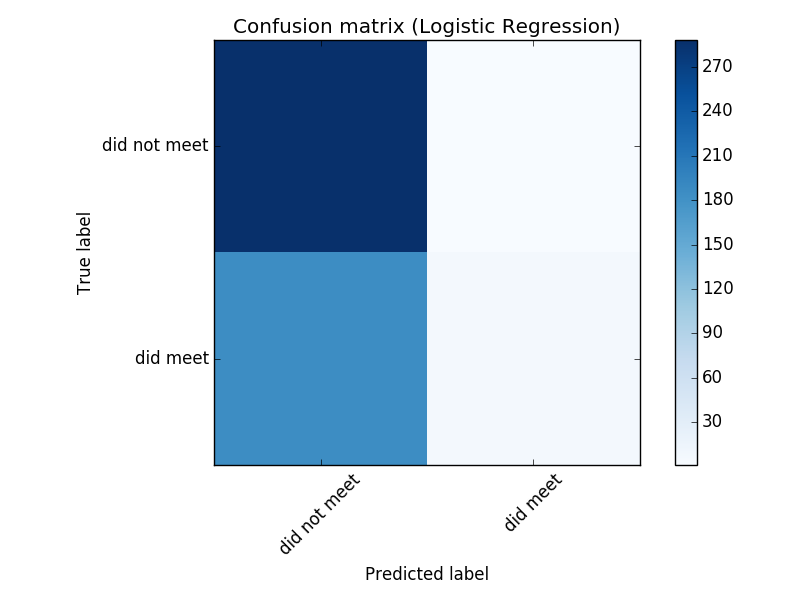
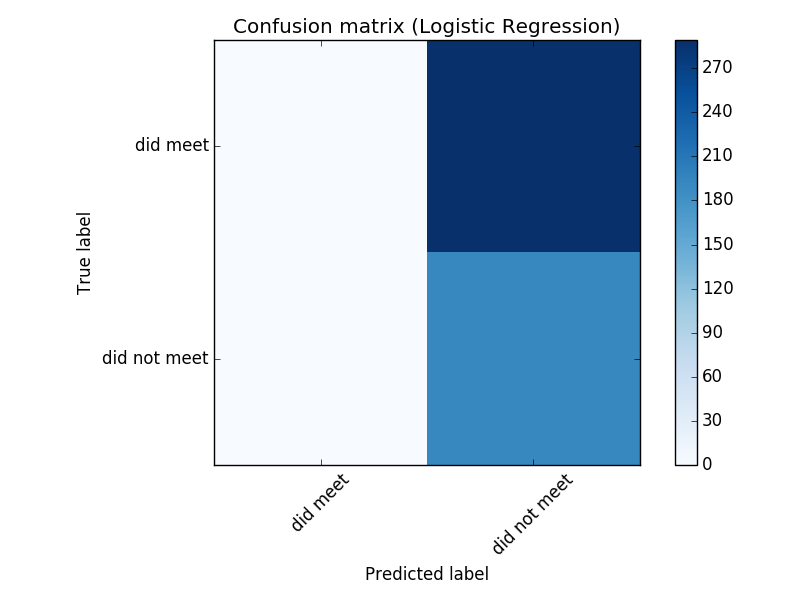
added empty appendix

diff --git a/report/methods.tex b/report/methods.tex
@@ -54,7 +54,7 @@ Thus we say a co-occurrence happens between users A and B if they share the same
 
 
 \subsection{Visualization}
-We used Basemap\cite{basemap}, for plotting all the locations at once and and Leaflet\cite{leaflet} for producing interactive maps to visualize the data, we created a map for visualizing the users location traces over time and we created one that allowed us to see all the co-occurrences that happened between a pair of users. Figure \ref{fig:sweden_locations_hexbin} and \ref{fig:japan_locations_hexbin} shows location updates from Sweden and Japan respectively plotted on a map. We can see location updates happened very often near Sony properties in Lund\cite{sony_headquarters_sweden_lund}, Kista\cite{sony_headquarters_sweden_kista}, and at Ericsson AB in Göteborg\cite{ericsson}, Sweden, and in Tokyo\cite{sony_headquarters_japan}, Japan.  Figure X shows an example of the co-occurrences visualized for a pair of users ('8d325d9f-9341-4d00-a890-2adaf412e5ca', 'a21d8502-c5cb-4eb5-8b19-b38ea74e9294'). This enabled us to exclude co-occurrences from these locations for the test dataset {\color{red} WHY?}.
+We used Basemap\cite{basemap}, for plotting all the locations at once and and Leaflet\cite{leaflet} for producing interactive maps to visualize the data, we created a map for visualizing the users location traces over time and we created one that allowed us to see all the co-occurrences that happened between a pair of users. Figure \ref{fig:sweden_locations_hexbin} and \ref{fig:japan_locations_hexbin} shows location updates from Sweden and Japan respectively plotted on a map. We can see location updates happened very often near Sony properties in Lund\cite{sony_headquarters_sweden_lund}, Kista\cite{sony_headquarters_sweden_kista}, and at Ericsson AB in Göteborg\cite{ericsson}, Sweden, and in Tokyo\cite{sony_headquarters_japan}, Japan.  Figure \ref{fig:user_pair_at_sony} shows an example of the co-occurrences visualized for a typical pair of users in Sweden having lots of co-occurrences within the Sony perimeter. This enabled us to exclude co-occurrences from these locations for the test dataset {\color{red} WHY?}.
 \begin{figure}[H]
     \hspace*{-1.0cm}
     \centering
@@ -69,6 +69,15 @@ We used Basemap\cite{basemap}, for plotting all the locations at once and and Le
     \caption{Location updates in Japan, hexbinned in log scale}
     \label{fig:japan_locations_hexbin}
 \end{figure}
+\begin{figure}[H]
+    \hspace*{-1.0cm}
+    \centering
+    \includegraphics[scale=0.50]{user_pair_at_sony}
+    \caption{User pair with high number of co-occurrences for whole period at Sony perimeters}
+    \label{fig:user_pair_at_sony}
+\end{figure}
+
+We decided to look at just how many location updates and co-occurrences happened inside the Sony perimeter.
 
 \section{Modeling}
 In this subsection we will describe the model and features used for prediction.
@@ -129,42 +138,47 @@ J(A_i,A_j) = \frac{ |A_i \cap A_j| }{ |A_i \cup A_j | }
 where $A_i$ is the set of apps used by user $i$ and $A_j$ is the set of apps used by user $j$. If $A_i$ and $A_j$ are empty sets we define $J(A_i, A_j) = 1$
 
 \subsection{Results}
-Initially we tried to infer friendship based on app usage. We did not have directed call-logs available so we could not reliably say if for example two people were calling each other. However the idea was that if we could find users with a similar timestamp and duration in an app, they could perhaps be communicating with each other either through phone calls or messaging apps. We identified the Android activity application name and package name for when a user is in a phone call called "Phone" and "package.com.android.incallui" respectively. Furthermore we identified a large number of messaging apps. We tried finding user pairs having activity in the phone app with a start_time and end_time difference of 10 seconds from each other. We looked at co-occurrences between user-pairs found this way and found that they either had a low number of co-occurrences around Sony properties or none at all.
+Initially we tried to infer friendship based on app usage. We did not have directed call-logs available so we could not reliably say if for example two people were calling each other. However the idea was that if we could find users with a similar timestamp and duration in an app, they could perhaps be communicating with each other either through phone calls or messaging apps. After finding user-pairs that met that criteria we try to validate them looking at their co-occurrences, were they many or few, were they off Sony properties or on, a lot of co-occurrences off sony properties could perhaps indicate a friendship. We identified the Android activity application name and package name for when a user is in a phone call called "Phone" and "package.com.android.incallui" respectively. Furthermore we identified a large number of messaging apps. We tried finding user pairs having activity in the phone app with a start time difference and end time difference of 10 seconds from each other. We looked at co-occurrences between user-pairs found this way and found that they either had a low number of co-occurrences around Sony properties or none at all.
 
+We decided to use a meeting in a next period as a proxy for friendship.
 
-For our training set we found 124 negative samples (did not meet) and 2331 positive samples (did meet), the high number of positive samples is due to the inclusion of Sony HQ location updates in our training set. In our test set we found a more moderate 289 negative samples (did not meet) and 191 positive samples (did meet).
+For our training set we found 124 negative samples (did not meet) and 2331 positive samples (did meet), the high number of positive samples is due to the inclusion of location updates in the Sony properties perimeter in our training set. In our test set we found a more moderate 289 negative samples (did not meet) and 191 positive samples (did meet).
 First we trained a Logistic Regression classifier which serves as our baseline classifier to compare our other model with. We trained it only with the feature num\_coocs. Next we trained a Random Forest classifier with all of our features.
 
+Due to our imbalanced dataset, the Logistic Regression classifier we trained initially always wanted to just predict the largest prevalent class, positive, in our training dataset.
+
+\subsection{Class Imbalance Problem}
+The Class Imbalance Problem is when the total number of samples for one class greatly exceeds the number of samples for a different class. A number of techniques can be used to handle the class imbalance problem, we will use two techniques called oversampling and undersampling\cite{tan2006introduction}. In oversampling you sample the minor sample with replacement until there is an equal number of positive and negative samples. In undersampling you randomly sample from the major class N times where N is the number of minor classes.
+
 \subsection{Performance metrics}
-We utilized the precision and recall metrics for evaluating the performance of our models as well as AUC of the ROC Curve.
+We utilize the precision and recall metrics for evaluating the performance of our models as well as AUC of the ROC Curve.
 \subsubsection{Precision}
-
+Precision or the positive predictive value (PPV) is a metric that measures the number of a given class that are correctly identified in proportion to the number of classes that are predicted to be that class.
 \subsubsection{Recall}
+Recall or the true positive rate (TPR) is a metric that measures the number of a given class that are correctly identified as that class.
 
-\subsubsection{ROC AUC}
+In Table \ref{table:models_performance_report} we can see the performance metrics of the different classifiers.
 
-In Table \ref{table:models_performance_report} we can see the performance metrics for the positive class (did meet).
-
-\begin{table}[htbp]
+\begin{table}[H]
 \centering
 \begin{tabular}{|c|c|c|c|c|c|c|c|c|c|c|}
 \hline
-\textbf{Model} & \textbf{Precision - positive} & \textbf{Recall - positive} & \textbf{Precision - negative} & \textbf{Recall - negative}   \\
+\textbf{Model} & \textbf{PPV +} & \textbf{TPR +} & \textbf{PPV -} & \textbf{PPV -}   \\
 \hline
-Logistic Regression (num\_coccs)          & 0.86 & 0.03 & 0.00 & 0.00       \\
+Logistic Regression (num\_coocs)          & 0.86 & 0.03 & 0.00 & 0.00       \\
 \hline
 Random Forest (T = 10)    & 0.49 & 0.57 & 0.68 & 0.62\\
 \hline
-Logistic Regression (num\_coocs, balanced class weight)          & 0.86 & 0.03 & 0.61 & 1.00      \\
+Logistic Regression (num\_coocs, balanced)          & 0.86 & 0.03 & 0.61 & 1.00      \\
 \hline
-Random Forest (balanced class weight, T = 200)    & 0.44 & 0.79 & 0.71 & 0.34\\
+Random Forest (balanced, T = 200)    & 0.44 & 0.79 & 0.71 & 0.34\\
 \hline
 \end{tabular}
-\caption{Models performance metrics for the positive class (did meet)}
+\caption{Models performance metrics}
 \label{table:models_performance_report}
 \end{table}
 
-Figure \ref{fig:conf_matrix_log_reg} and \ref{fig:conf_matrix_random_forest} shows the confusion matrices for our two models.
+We can further look at the number of classes correctly and incorrectly predicted using a Confusion Matrix. Figure \ref{fig:conf_matrix_log_reg} and \ref{fig:conf_matrix_random_forest} shows the confusion matrices for our two models.
 
 \begin{figure}[H]
     \hspace*{-1.0cm}
@@ -181,8 +195,4 @@ Figure \ref{fig:conf_matrix_log_reg} and \ref{fig:conf_matrix_random_forest} sho
     \label{fig:conf_matrix_random_forest}
 \end{figure}
 
-
-\subsection{Class Imbalance Problem}
-The Class Imbalance Problem is when the total number of data for one class greatly exceeds the number of data for a different class.
-
-
+Looking at Figure \ref{fig:conf_matrix_log_reg} we see our baseline classifier has a very high 

diff --git a/tools/Predictor.py b/tools/Predictor.py
@@ -234,24 +234,24 @@ class Predictor():
         X_train = scaler.transform(X_train)
         X_test = scaler.transform(X_test)
         print("Logistic Regression - with number of cooccurrences")
-        lg = sklearn.linear_model.LogisticRegression(class_weight="balanced")
+        lg = sklearn.linear_model.LogisticRegression(random_state=0, class_weight="balanced")
         lg.fit(X_train[:, 0].reshape(-1, 1), y_train)
         y_pred = lg.predict(X_test[:, 0].reshape(-1, 1))
         print(sklearn.metrics.classification_report(y_test, y_pred, target_names=["did not meet", "did meet"]))
         self.compute_roc_curve(y_test, lg.predict_proba(X_test[:, 0].reshape(-1, 1))[:,1])
-        cm = confusion_matrix(y_test, y_pred)
+        cm = confusion_matrix(y_test, y_pred, labels=[0, 1])
+        print(sklearn.metrics.classification_report(y_test, y_pred, target_names=["did not meet", "did meet"]))
         self.plot_confusion_matrix(cm, title="Confusion matrix (Logistic Regression)")
         print(cm)
         print("Random Forest - all features")
-        #self.tweak_features(X_train, y_train, X_test, y_test)
-        forest = sklearn.ensemble.RandomForestClassifier(n_estimators = 200, class_weight="balanced")
+        forest = sklearn.ensemble.RandomForestClassifier(n_estimators = 200, random_state=0, class_weight="balanced")
         forest.fit(X_train, y_train)
         y_pred = forest.predict(X_test)
         print(sklearn.metrics.classification_report(y_test, y_pred, target_names=["did not meet", "did meet"]))
         self.compute_feature_ranking(forest, X_test)
         # compute ROC curve
         self.compute_roc_curve(y_test, forest.predict_proba(X_test)[:,1])
-        cm = confusion_matrix(y_test, y_pred)
+        cm = confusion_matrix(y_test, y_pred, labels=[0, 1])
         self.plot_confusion_matrix(cm, title="Confusion matrix (Random Forest)")
         print(cm)
 

diff --git a/report/main.tex b/report/main.tex
@@ -37,6 +37,7 @@
 %\usepackage{booktabs}
 \usepackage{pbox}
 \usepackage{tabulary}
+\usepackage{minted}
 %\usepackage{blindtext}
 %\usepackage[scaled=0.85]{beramono}
 
@@ -126,6 +127,21 @@
 \addcontentsline{toc}{chapter}{Bibliography}        %Force addition of Bibliography to TOC
 \bibliographystyle{alpha}                           %Use alpha codes for references
 \bibliography{references}                           %Bibliography file called
+
+\begin{minted}[mathescape,
+               linenos,
+               numbersep=5pt,
+               gobble=2,
+               frame=lines,
+               framesep=2mm]{csharp}
+  string title = "This is a Unicode π in the sky"
+  /*
+  Defined as $\pi=\lim_{n\to\infty}\frac{P_n}{d}$ where $P$ is the perimeter
+  of an $n$-sided regular polygon circumscribing a
+  circle of diameter $d$.
+  */
+  const double pi = 3.1415926535
+\end{minted}
 \end{document}
 % % % EOF % % %\grid
 

diff --git a/presentation_app/app.py b/presentation_app/app.py
@@ -18,7 +18,7 @@ app.debug = True
 tools_path = "../tools/"
 
 database = DatabaseHelper.DatabaseHelper(tools_path)
-run = main.Run()
+run = main.Run("Sweden")
 
 number_features = ["altitude", "accuracy"]
 category_features = ["country", "region", "area", "place"]
@@ -178,9 +178,9 @@ def data_cooccurrences():
         useruuid2 = None
     all_filters = [item for sublist in run.filter_places_dict.values() for item in sublist]
     if useruuid1 and useruuid2:
-        cooccurrences = get_cooccurrences_async(useruuid1, useruuid2, points_w_distances=all_filters)
+        cooccurrences = get_cooccurrences_async(useruuid1, useruuid2)
     elif useruuid1:
-        cooccurrences = get_cooccurrences_async(useruuid1, points_w_distances=all_filters)
+        cooccurrences = get_cooccurrences_async(useruuid1)
     else:
         print("getting from japan")
         cooccurrences = get_cooccurrences_async_all("Japan")

diff --git a/report/Appendix1.tex b/report/Appendix1.tex
@@ -1,0 +1,1 @@
+\chapter{Code}
